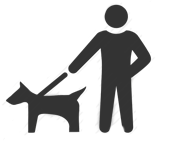
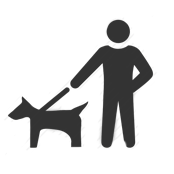
dyreprofil update

Changed region(s): [[0.0287, 0.0263, 0.8908, 0.8947]]

diff --git a/dyreprofil.html b/dyreprofil.html
@@ -15,7 +15,7 @@
 
 <body>
         <p class="overskrift">
-                dyreprofil
+               f´Fiddos profil
             </p>
     <div id="wrapper">
         <div id="slider-wrap">
@@ -87,7 +87,7 @@
             rediger dyr
         </p>
     </section>
-    <section>
+    <section class="pet-profile">
             <img src="gallery/Humans-19-512.png" alt="opret_pasning">
             <p>
                 opret pasning

diff --git a/style2.css b/style2.css
@@ -1,6 +1,5 @@
 body {
     margin: 0 auto;
-    background-color: #F9F0DD;
   }
   
   .container {
@@ -136,12 +135,17 @@ p.dyreprofil-fed {
 
 .pet-profile {
   text-align: center;
-  margin: 0;
+  margin: 4vh 0;
 }
 
 .pet-profile img {
-  max-height: 30vh;
+  max-height: 22vh;
+background-color: lightblue;
+border-radius: 13%;
+}
 
+p {
+  margin: 0;
 }
 
 #wrapper{
